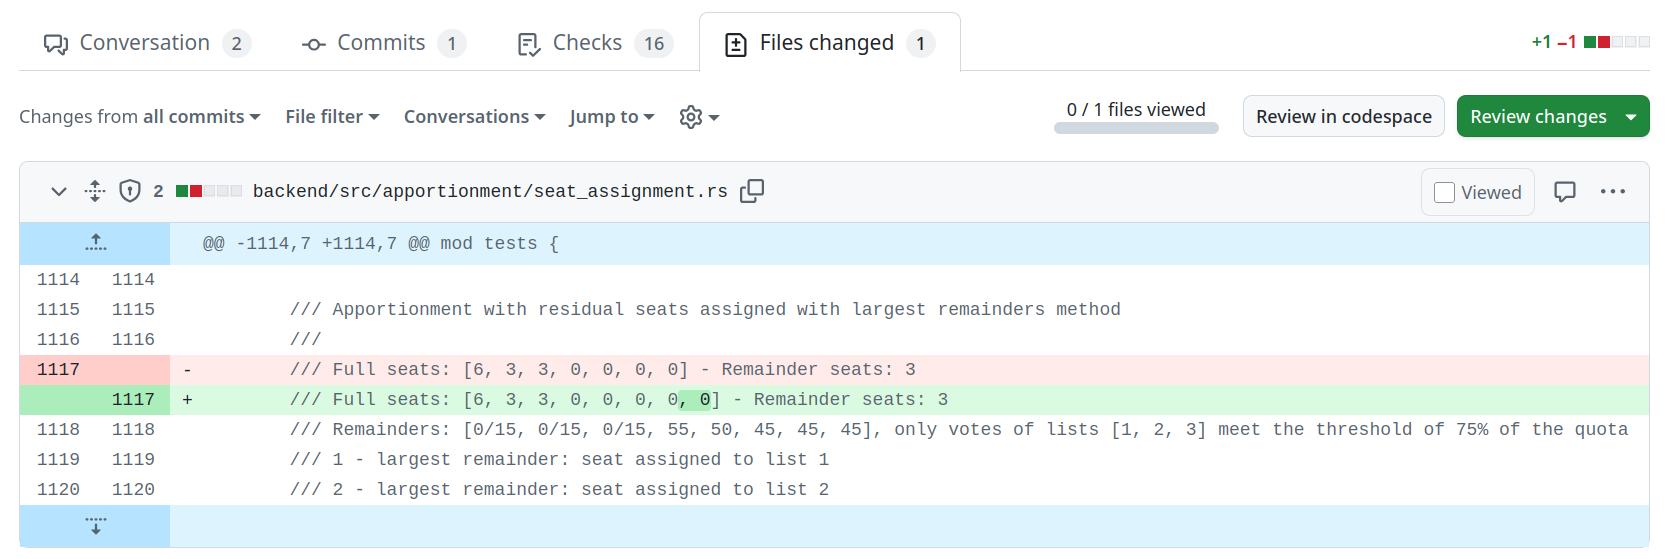
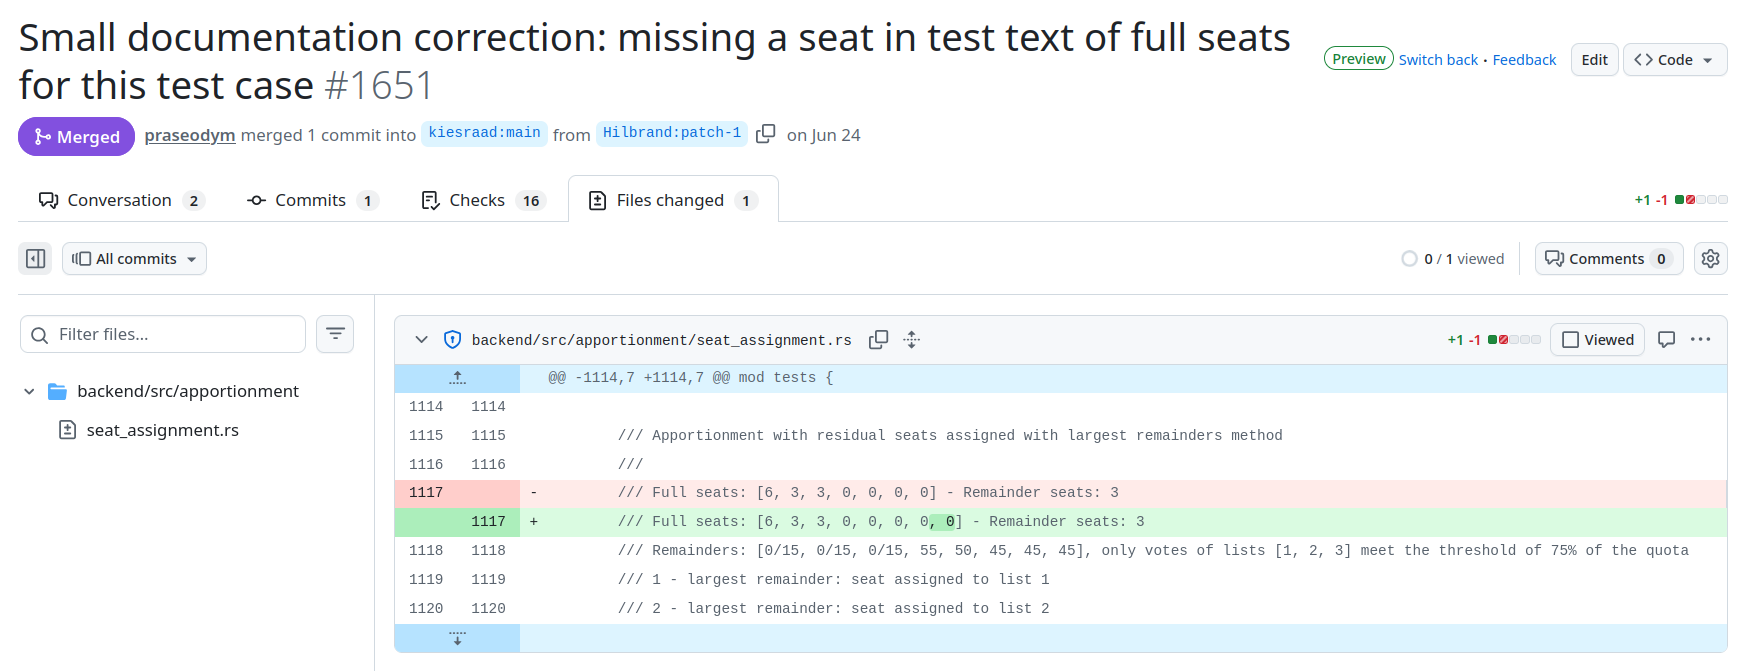
final-ish TB25

diff --git a/testbash25-peculiar-quality.html b/testbash25-peculiar-quality.html
@@ -47,8 +47,8 @@
 			</div> -->
 			<section data-state="h-cent-v-cent">
 				<h1 class="main-title">Ensuring quality for a peculiar piece of software </h1>
-				<div style="margin-top:0.5em;display:flex;flex-wrap:nowrap;justify-content:space-around;align-items:center;">
-					<div style="width:45%">
+				<div style="margin-top:2.0em;display:flex;flex-wrap:nowrap;justify-content:space-around;align-items:center;">
+					<div style="width:40%">
 						<img class="plain" style="margin-bottom:0" src="./testbash25/TestBashBrighton-400.png" width="35%" alt="TestBash Brighton logo"/>
 						<h6 class="small">2 October 2025</h6>
 					</div>
@@ -86,6 +86,11 @@
 						<h4>data entry per polling station</h4>
 						<h4>adding up all the votes</h4>
 						<h4>determining who gets a seat</h4>
+						<div class="flex-between">
+							<img class="plain" width="27%" src="./testbash25/ballots.jpg" alt="a stack of voting ballots"/>
+							<img class="plain" width="27%" src="./testbash25/cso.jpg" alt="a sports hall with tables where people are counting ballots"/>
+							<img class="plain" width="27%" src="./testbash25/data-entry-hall.jpg" alt="a room with people sitting behind computers"/>
+						</div>
 				</div>
 			</section>
 
@@ -96,7 +101,7 @@
 						<h4>clear deadline</h4>
 						<h4>very few and stable integrations</h4>
 						<!-- <h4>greenfield</h4> -->
-						<h4>lock ourselves away for 18 months</h4>
+						<h4 class="space-above">lock ourselves away for 18 months</h4>
 				</div>
 				<aside class="notes">
 					party like it's 1999
@@ -234,9 +239,9 @@
 					<h4>subject - object - verb</h4>
 					<h4><em>"The application determines the data is valid."</em></h4>
 					<h4 class="space-above">different levels of formality</h4>
-					<h4>iterative and incremental</h4>
 				</div>
 				<aside class="notes">
+					iterative and incremental
 					where process and software touch
 				</aside>
 			</section>
@@ -276,8 +281,8 @@
 				<h3 class="slide-title">Slices, thin and vertical</h3>
 				<div class="slide-body">
 					<h4>how do you split up the work?</h4>
-					<h4 class="space-above">elephant carpaccio-workshop</h4>
-						<img style="width:40%;" class="plain center" src="./testbash25/elephant-carpaccio.jpg" alt="drawing of an elephant with yellow vertical lines drawn over it to indicate slices"/>
+					<h4 class="space-above">Elephant Carpaccio-workshop</h4>
+						<img style="width:40%;" class="plain" src="./testbash25/elephant-carpaccio.jpg" alt="drawing of an elephant with yellow vertical lines drawn over it to indicate slices"/>
 
 				</div>
 				<aside class="notes">
@@ -290,7 +295,7 @@
 				<div class="slide-body">
 					<h4>small steps of progress</h4>
 					<h4>instead of...</h4>
-					<h4 class="space-above">feedback on what you're working on now,<br/>instead of last week</h4>
+					<h4 class="space-above">feedback on what you're working on now<br/>instead of last week</h4>
 				</div>
 			</section>
 
@@ -349,6 +354,7 @@
 				<div class="slide-body">
 					<h4>no backlog full of bugs</h4>
 					<h4>done is done,<br/>so done needs to be good enough</h4>
+					<div style="margin-top: 2em;"/>
 					<img class="plain center" width="70%" src="./testbash25/first-bug.jpg" alt="The first recorded instance of an actual bug (a moth) disrupting the operation of the Harvard Mark II on September 9, 1947"/>
 				</div>
 				<aside class="notes">
@@ -374,6 +380,7 @@
 				<div class="slide-body">
 					<h4>the code</h4>
 					<h4>the repository <a class="small" style="margin-left:1.1em" href="https://github.com/kiesraad/abacus">github.com/kiesraad/abacus</a></h4>
+					<h4>the designs  <a class="small" style="margin-left:1.1em" href="https://www.figma.com/design/xHDfsv69Nhmk3IrWC0303B/Public---Kiesraad---Abacus-optelsoftware">figma</a></h4>
 					<h4>the pipelines and releases</h4>
 					<h4>the documentation</h4>
 					<h4>the project board</h4>
@@ -389,6 +396,7 @@
 				<div class="slide-body">
 					<h4>because we have to</h4>
 					<h4>because we think we should</h4>
+					<img class="plain center" width="75%" src="./testbash25/guarantees.png" alt="the guarantees required for good elections: voting secrecy, independence, accessibility, transparency, integrity, verifiability, freedom to vote, right to vote, uniqueness"/>
 				</div>
 			</section>
 
@@ -491,6 +499,7 @@
 			
 			<section data-state="h-cent-v-cent" data-background-image="testbash25/bg_slide-both.png" data-background-size=contain>
 				<h3 class="key-point" style="color:#383D3D">thank you!</h3>
+				<img class="plain center" style="margin-top:1em; margin-bottom:1em" width="45%" src="./testbash25/red-pencils.jpg" alt="a pile of little red pencils"/>
 				<h6>slides at <a href="https://smallsheds.garden/my-talks/">smallsheds.garden/my-talks/</a></h6>
 			</section>
 

diff --git a/css/testbash25.css b/css/testbash25.css
@@ -93,7 +93,7 @@ body {
   word-wrap: break-word; }
 
 .reveal h1 {
-  font-size: 2.0em; /*3.77em*/
+  font-size: 1.85em; /*3.77em*/
   text-shadow: none;
 }
 
@@ -106,7 +106,7 @@ body {
 } /*1.55em*/
 
 .reveal h4 {
-  font-size: 0.95em; }
+  font-size: 0.90em; }
 
 .reveal h5 {
   font-size: 0.8em; }
@@ -138,7 +138,7 @@ body {
 
 .reveal h3.slide-title {
   font-family: "Space Grotesk", serif;
-  font-size: 1.5em;
+  font-size: 1.4em;
   color: #00305B;
   /*font-weight: bold;*/
 }
@@ -155,7 +155,7 @@ body {
 }
 
 .reveal .slide-body h4.space-above {
-  margin-top: 1.3em;
+  margin-top: 1.7em;
 }
 
 
